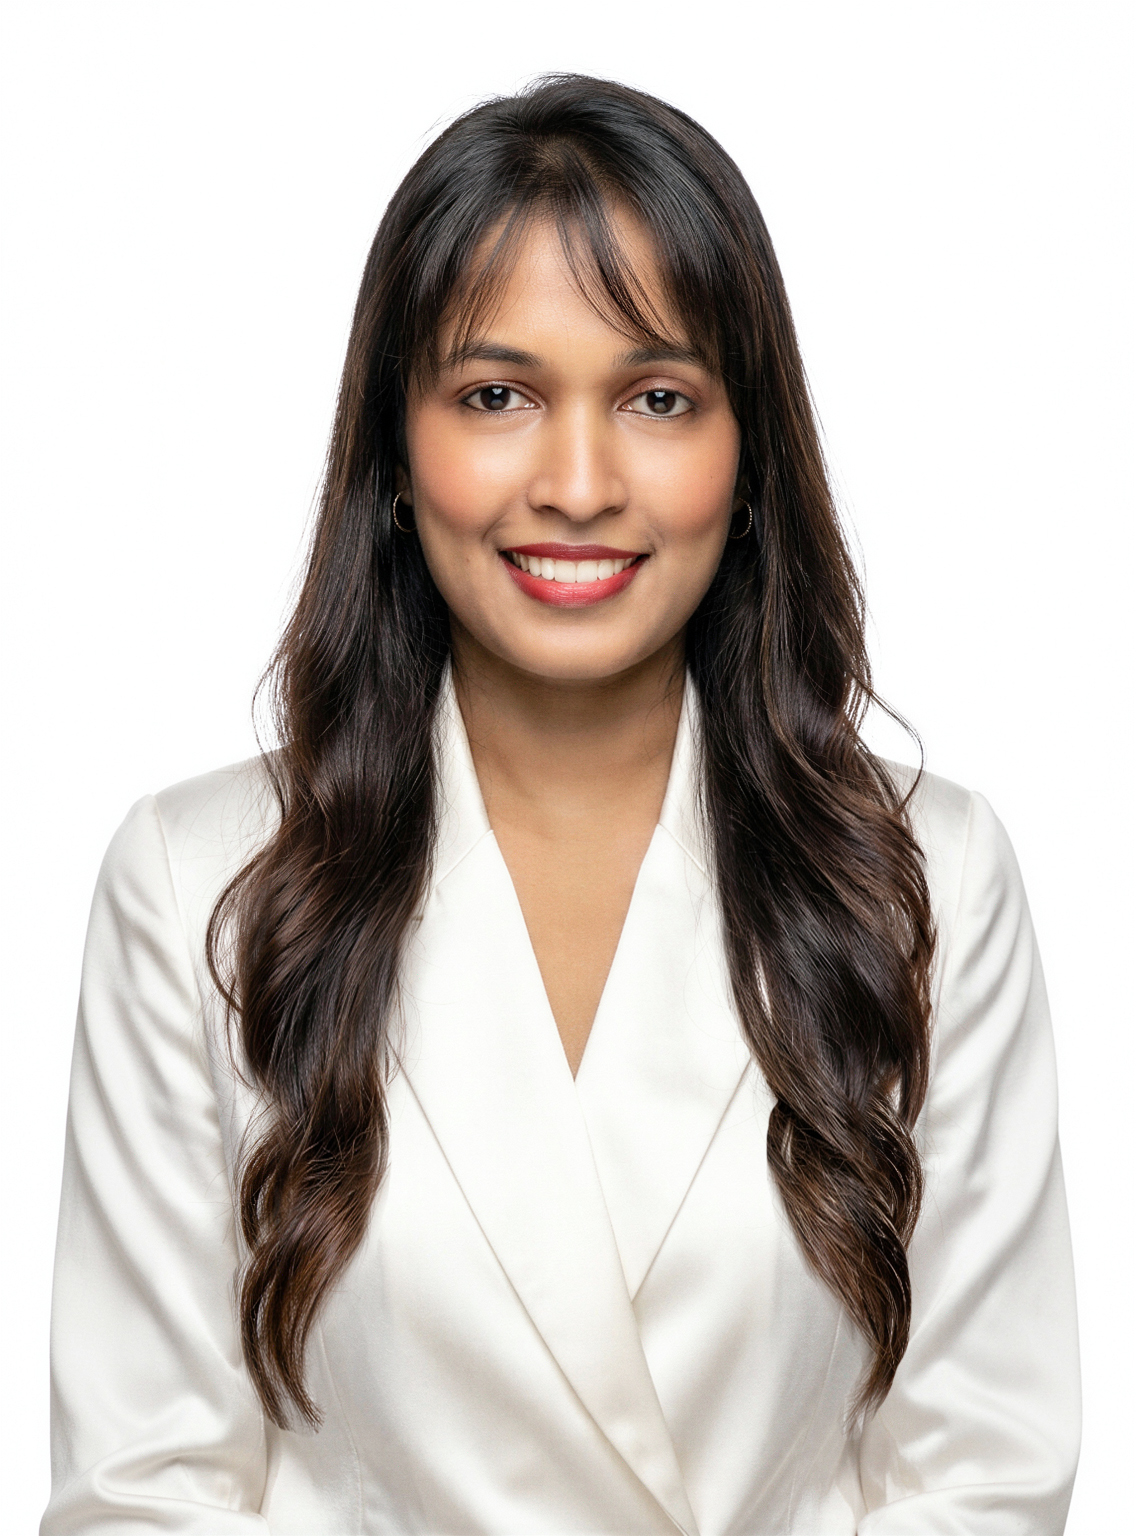
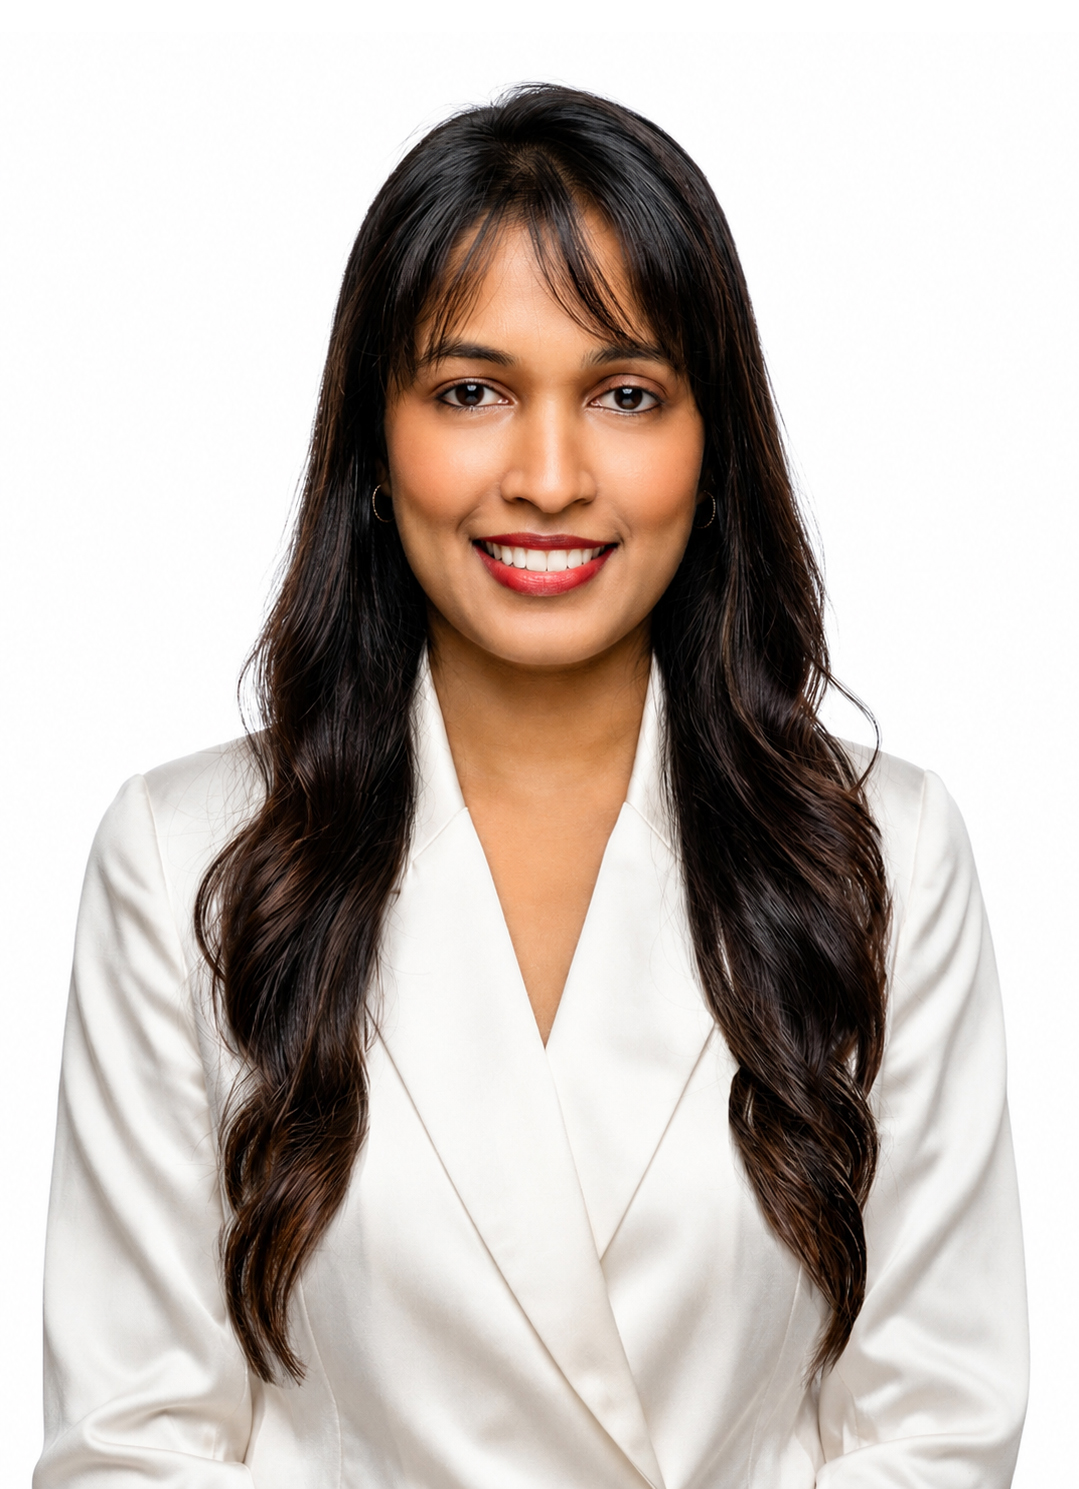
Update team portraits

diff --git a/styles.css b/styles.css
@@ -975,7 +975,7 @@ p {
 }
 
 .portrait-nipuni {
-  --portrait: url("team%20and%20navigators/Nipu.jpg");
+  --portrait: url("team%20and%20navigators/Nipu%202.png");
 }
 
 .portrait-nidul {